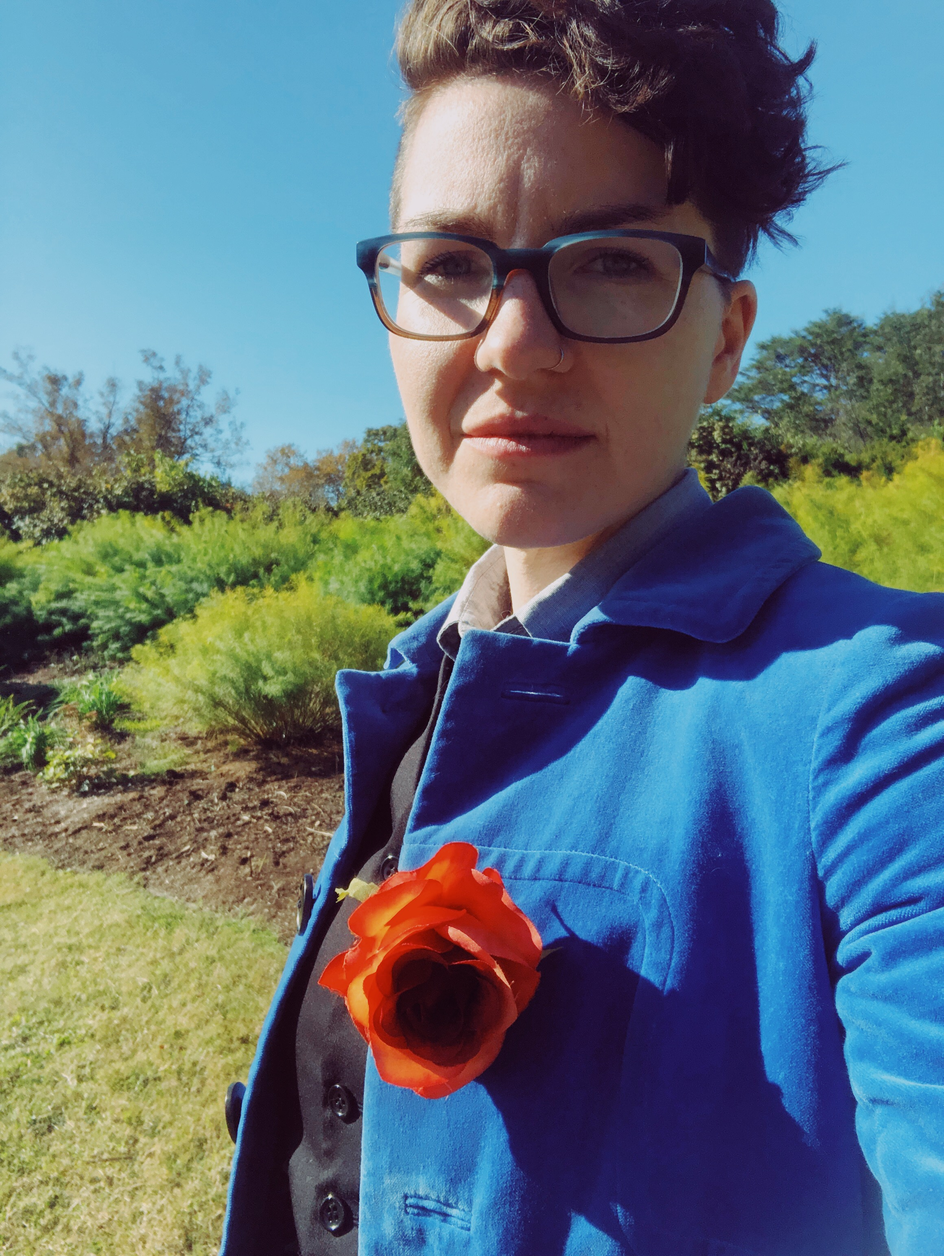
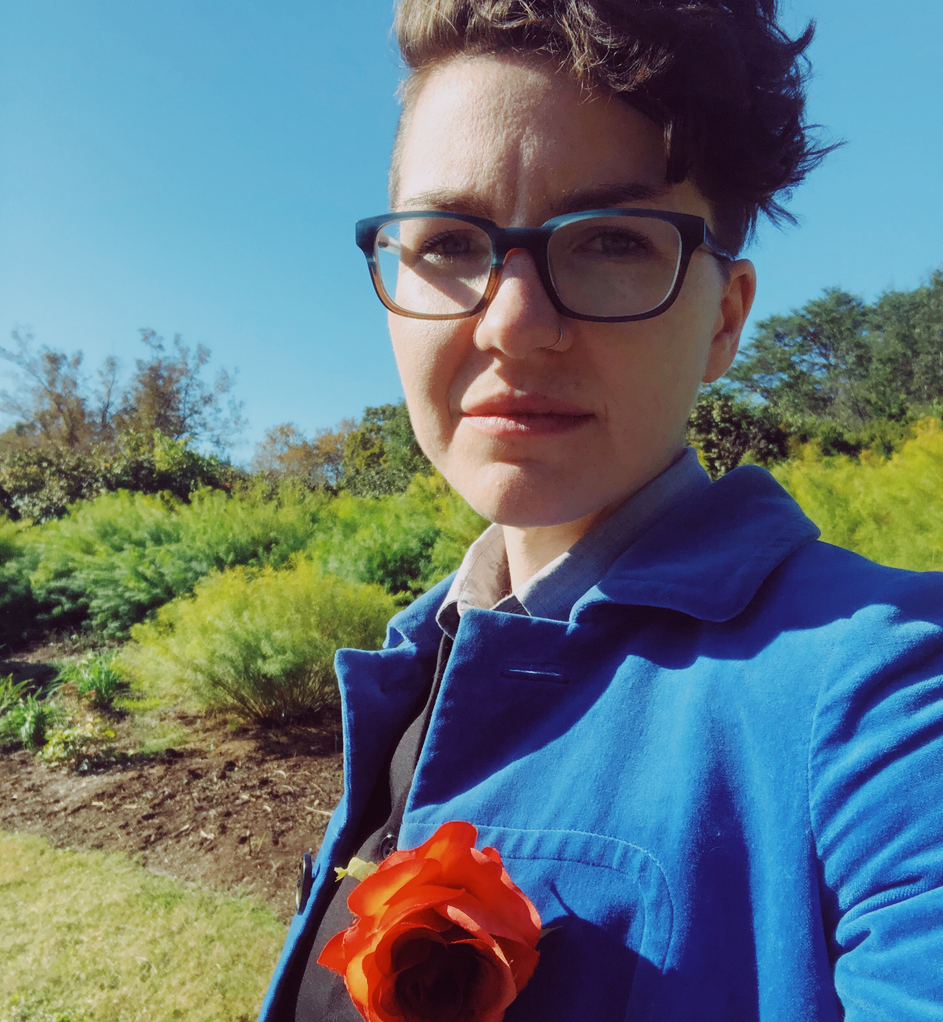
Changes to index

diff --git a/index.html b/index.html
@@ -6,7 +6,7 @@
 -->
 <html>
 	<head>
-		<title>Story by HTML5 UP</title>
+		<title>Megan Reh | Developer & Designer</title>
 		<meta charset="utf-8" />
 		<meta name="viewport" content="width=device-width, initial-scale=1, user-scalable=no" />
 		<link rel="stylesheet" href="assets/css/main.css" />
@@ -18,26 +18,34 @@
 			<div id="wrapper" class="divided">
 
 				<!-- One -->
-					<section class="banner style2 orient-center content-align-left image-position-right fullscreen onload-image-fade-in onload-content-fade-right">
+					<section class="banner style2 orient-right content-align-left image-position-right invert fullscreen onload-image-fade-in onload-content-fade-right">
 						<div class="content">
-							<h1>Story</h1>
-							<p class="major">A (modular, highly tweakable) responsive one-page template designed by <a href="https://html5up.net">HTML5 UP</a> and released for free under the <a href="https://html5up.net/license">Creative Commons</a>.</p>
-							<ul class="actions stacked">
-								<li><a href="#first" class="button big wide smooth-scroll-middle">Get Started</a></li>
-							</ul>
+							<h1><ul class="icons">
+								<li><i class="fas fa-mug-hot"></i></li>
+								<li><i class="fas fa-glasses"></i></li>
+								<li><i class="fas fa-book"></i></li>
+					
+							</ul></h1>
+							<h1><strong>Hi! I'm Megan</strong></h1>
+							<h2>Developer & Designer</h2>
+							
+							
 						</div>
 						<div class="image">
-							<img src="images/IMG_0779.jpg" alt="" />
+							<img src="images/IMG_0881.jpg" alt="" />
 						</div>
 					</section>
 
 				<!-- Two -->
-					<section class="spotlight style1 orient-right content-align-left image-position-center onscroll-image-fade-in" id="first">
+					<section class="spotlight style2 orient-right content-align-left image-position-center onscroll-image-fade-in" id="first">
 						<div class="content">
-							<h2>Magna etiam feugiat</h2>
-							<p>Lorem ipsum dolor sit amet, consectetur adipiscing elit. Morbi id ante sed ex pharetra lacinia sit amet vel massa. Donec facilisis laoreet nulla eu bibendum. Donec ut ex risus. Fusce lorem lectus, pharetra pretium massa et, hendrerit vestibulum odio lorem ipsum dolor sit amet.</p>
+							<h2>Introduction</h2>
+							<p>Thanks so much for stopping by! I'm an English Literature and Psychology major who started coding for fun, which grew into more than a hobby, and then into a career. But it's still fun. I've worked as a Technical Writer, Graphic Designer, Email Developer and Web Developer. I'm always pushing myself to learn new skills and grow as a designer & developer. <br/><br/>Do you have a project you think I might be a good fit for? Do you want to talk about code and design? Want to go to trivia night or do you have an exciting idea for a Dungeons & Dragons campaign? Please get in touch!</p>
+							<p>
+							
+							</p>
 							<ul class="actions stacked">
-								<li><a href="#" class="button">Learn More</a></li>
+								<li><a href="#contact" class="button primary">Contact Me</a></li>
 							</ul>
 						</div>
 						<div class="image">
@@ -46,12 +54,13 @@
 					</section>
 
 				<!-- Three -->
-					<section class="spotlight style1 orient-left content-align-left image-position-right onscroll-image-fade-in">
+					
+					<section class="spotlight style2 orient-left content-align-left image-position-right onscroll-image-fade-in">
 						<div class="content">
-							<h2>Tempus adipiscing</h2>
-							<p>Lorem ipsum dolor sit amet, consectetur adipiscing elit. Morbi id ante sed ex pharetra lacinia sit amet vel massa. Donec facilisis laoreet nulla eu bibendum. Donec ut ex risus. Fusce lorem lectus, pharetra pretium massa et, hendrerit vestibulum odio lorem ipsum dolor sit amet.</p>
+							<h2>Diddit!</h2>
+							<p>Diddit! is a combination habit tracker / to-do list / personal journal inspired by <a href="#">bullet journals</a>.</p>
 							<ul class="actions stacked">
-								<li><a href="#" class="button">Learn More</a></li>
+								<li><a href="https://youtu.be/QsPpVmte-lA" target="_blank" class="button primary">Watch the demo</a></li>
 							</ul>
 						</div>
 						<div class="image">
@@ -59,29 +68,16 @@
 						</div>
 					</section>
 
-				<!-- Four -->
-					<section class="spotlight style1 orient-right content-align-left image-position-center onscroll-image-fade-in">
-						<div class="content">
-							<h2>Pharetra etiam nulla</h2>
-							<p>Lorem ipsum dolor sit amet, consectetur adipiscing elit. Morbi id ante sed ex pharetra lacinia sit amet vel massa. Donec facilisis laoreet nulla eu bibendum. Donec ut ex risus. Fusce lorem lectus, pharetra pretium massa et, hendrerit vestibulum odio lorem ipsum dolor sit amet.</p>
-							<ul class="actions stacked">
-								<li><a href="#" class="button">Learn More</a></li>
-							</ul>
-						</div>
-						<div class="image">
-							<img src="images/spotlight03.jpg" alt="" />
-						</div>
-					</section>
-
+				
 				<!-- Five -->
-					<section class="wrapper style1 align-center">
+					<!-- <section class="wrapper style1 align-center">
 						<div class="inner">
 							<h2>Massa sed condimentum</h2>
 							<p>Lorem ipsum dolor sit amet, consectetur adipiscing elit. Morbi id ante sed ex pharetra lacinia sit amet vel massa. Donec facilisis laoreet nulla eu bibendum. Donec ut ex risus. Fusce lorem lectus, pharetra pretium massa et, hendrerit vestibulum odio lorem ipsum.</p>
 						</div>
 
-						<!-- Gallery -->
-							<div class="gallery style2 large lightbox onscroll-fade-in">
+						
+							<div class="gallery style1 big lightbox onscroll-fade-in">
 								<article>
 									<a href="images/MCWflier.png" class="image">
 										<img src="images/MCWflier.png" alt="" />
@@ -119,8 +115,8 @@
 									</div>
 								</article>
 								<article>
-									<a href="images/gallery/fulls/04.jpg" class="image">
-										<img src="images/gallery/thumbs/04.jpg" alt="" />
+									<a href="images/gallery/fulls/092417_sun_fallhaul.gif" class="image">
+										<img src="images/gallery/thumbs/092417_sun_fallhaul.gif" alt="" />
 									</a>
 									<div class="caption">
 										<h3>Sed Tempus</h3>
@@ -144,7 +140,7 @@
 								</article>
 								<article>
 									<a href="images/gallery/fulls/06.jpg" class="image">
-										<img src="images/gallery/thumbs/06.jpg" alt="" />
+										<img src="images/gallery/thumbs/MCWflier.gif" alt="" />
 									</a>
 									<div class="caption">
 										<h3>Sed Tempus</h3>
@@ -228,10 +224,10 @@
 								</article>
 							</div>
 
-					</section>
+					</section> -->
 
-				<!-- Six -->
-					<section class="wrapper style1 align-center">
+			
+					<!-- <section class="wrapper style1 align-center">
 						<div class="inner">
 							<h2>Ipsum sed consequat</h2>
 							<p>Lorem ipsum dolor sit amet, consectetur adipiscing elit. Morbi id ante sed ex pharetra lacinia sit amet vel massa. Donec facilisis laoreet nulla eu bibendum. Donec ut ex risus. Fusce lorem lectus, pharetra pretium massa et, hendrerit vestibulum odio lorem ipsum.</p>
@@ -298,13 +294,13 @@
 								</section>
 							</div>
 						</div>
-					</section>
+					</section> -->
 
 				<!-- Seven -->
 					<section class="wrapper style1 align-center">
-						<div class="inner medium">
+						<div id="contact" class="inner medium">
 							<h2>Get in touch</h2>
-							<form method="post" action="#">
+							<form method="post" action="mailto:megreh@gmail.com">
 								<div class="fields">
 									<div class="field half">
 										<label for="name">Name</label>
@@ -331,13 +327,12 @@
 					<footer class="wrapper style1 align-center">
 						<div class="inner">
 							<ul class="icons">
-								<li><a href="#" class="icon brands style2 fa-twitter"><span class="label">Twitter</span></a></li>
-								<li><a href="#" class="icon brands style2 fa-facebook-f"><span class="label">Facebook</span></a></li>
+								<li><a href="#" class="icon brands style2 fa-github"><span class="label">Github</span></a></li>
 								<li><a href="#" class="icon brands style2 fa-instagram"><span class="label">Instagram</span></a></li>
-								<li><a href="#" class="icon brands style2 fa-linkedin-in"><span class="label">LinkedIn</span></a></li>
-								<li><a href="#" class="icon style2 fa-envelope"><span class="label">Email</span></a></li>
+								<li><a href="https://www.linkedin.com/in/megan-reh/" class="icon brands style2 fa-linkedin-in"><span class="label">LinkedIn</span></a></li>
+							
 							</ul>
-							<p>&copy; Untitled. Design: <a href="https://html5up.net">HTML5 UP</a>.</p>
+							<p>&copy; Megan Reh. Design: <a href="https://html5up.net">HTML5 UP</a>.</p>
 						</div>
 					</footer>
 

diff --git a/assets/css/main.css b/assets/css/main.css
@@ -194,7 +194,7 @@ input, select, textarea {
 	h1, h2, h3, h4, h5, h6 {
 		font-weight: 300;
 		line-height: 1.375;
-		letter-spacing: -0.05em;
+		letter-spacing: 0.0em;
 		margin: 0 0 1rem 0;
 	}
 
